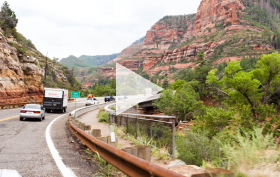
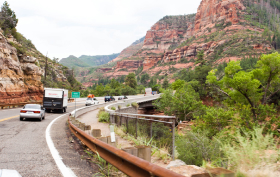
add video play button

Changed region(s): [[0.4, 0.339, 0.6, 0.6497]]

diff --git a/source/catalog.html b/source/catalog.html
@@ -168,17 +168,22 @@
           <h2 class="video-presentation__title heading">Все еще сомневаетесь?</h2>
           <p>Смотрите видеопрезентацию и скорее за билетами, пока они не подорожали в очередной раз!</p>
         </header>
-        <picture>
-          <source type="image/avif" media="(min-width: 769px)" srcset="img/video-presentation--desktop.avif 1x, img/video-presentation--desktop@2x.avif 2x">
-          <source type="image/avif" media="(min-width: 321px)" srcset="img/video-presentation--tablet.avif 1x, img/video-presentation--tablet@2x.avif 2x">
-          <source type="image/avif" srcset="img/video-presentation--mobile.avif 1x, img/video-presentation--mobile@2x.avif 2x">
-          <source type="image/webp" media="(min-width: 769px)" srcset="img/video-presentation--desktop.webp 1x, img/video-presentation--desktop@2x.webp 2x">
-          <source type="image/webp" media="(min-width: 321px)" srcset="img/video-presentation--tablet.webp 1x, img/video-presentation--tablet@2x.webp 2x">
-          <source type="image/webp" srcset="img/video-presentation--mobile.webp 1x, img/video-presentation--mobile@2x.webp 2x">
-          <source media="(min-width: 769px)" srcset="img/video-presentation--desktop.jpg 1x, img/video-presentation--desktop@2x.jpg 2x">
-          <source media="(min-width: 321px)" srcset="img/video-presentation--tablet.jpg 1x, img/video-presentation--tablet@2x.jpg 2x">
-          <img class="video-presentation__video" src="img/video-presentation--mobile.jpg" srcset="img/video-presentation--mobile.jpg 1x, img/video-presentation--mobile@2x.jpg 2x" width="280" height="177" alt="Видеопрезентация отдыха в Седоне." loading="lazy">
-        </picture>
+        <div class="video-presentation__main">
+          <picture>
+            <source type="image/avif" media="(min-width: 769px)" srcset="img/video-presentation--desktop.avif 1x, img/video-presentation--desktop@2x.avif 2x">
+            <source type="image/avif" media="(min-width: 321px)" srcset="img/video-presentation--tablet.avif 1x, img/video-presentation--tablet@2x.avif 2x">
+            <source type="image/avif" srcset="img/video-presentation--mobile.avif 1x, img/video-presentation--mobile@2x.avif 2x">
+            <source type="image/webp" media="(min-width: 769px)" srcset="img/video-presentation--desktop.webp 1x, img/video-presentation--desktop@2x.webp 2x">
+            <source type="image/webp" media="(min-width: 321px)" srcset="img/video-presentation--tablet.webp 1x, img/video-presentation--tablet@2x.webp 2x">
+            <source type="image/webp" srcset="img/video-presentation--mobile.webp 1x, img/video-presentation--mobile@2x.webp 2x">
+            <source media="(min-width: 769px)" srcset="img/video-presentation--desktop.jpg 1x, img/video-presentation--desktop@2x.jpg 2x">
+            <source media="(min-width: 321px)" srcset="img/video-presentation--tablet.jpg 1x, img/video-presentation--tablet@2x.jpg 2x">
+            <img class="video-presentation__video" src="img/video-presentation--mobile.jpg" srcset="img/video-presentation--mobile.jpg 1x, img/video-presentation--mobile@2x.jpg 2x" width="280" height="177" alt="Видеопрезентация отдыха в Седоне." loading="lazy">
+          </picture>
+          <button class="video-presentation__button" type="button">
+            <span class="visually-hidden">Начать просмотр.</span>
+          </button>
+        </div>
       </section>
     </main>
     <footer class="footer">

diff --git a/source/sass/blocks/video-presentation.scss b/source/sass/blocks/video-presentation.scss
@@ -42,8 +42,44 @@
   }
 }
 
+.video-presentation__main {
+  position: relative;
+}
+
 .video-presentation__video {
   display: block;
   width: auto;
   margin: 0 auto;
+}
+
+.video-presentation__button {
+  position: absolute;
+  top: 50%;
+  left: 50%;
+  width: 48px;
+  height: 54px;
+  border: none;
+  background: $background-primary;
+  transform: translate(-50%, -50%);
+  opacity: 0.7;
+  clip-path: polygon(0 0, 100% 50%, 0 100%);
+
+  &:focus {
+    outline: none;
+    opacity: 1;
+  }
+
+  &:hover {
+    opacity: 0.5;
+    cursor: pointer;
+  }
+
+  &:active {
+    opacity: 0.3;
+  }
+
+  &:disabled {
+    opacity: 0.1;
+    pointer-events: none;
+  }
 }
